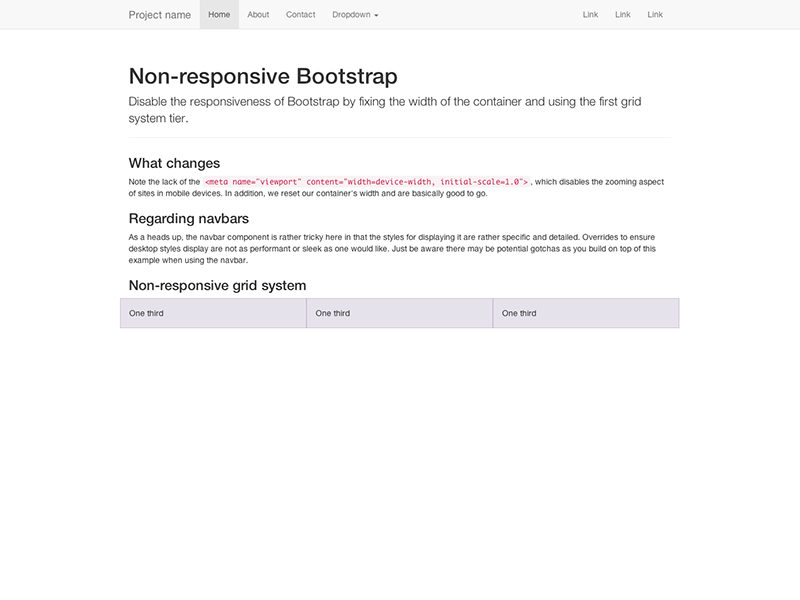
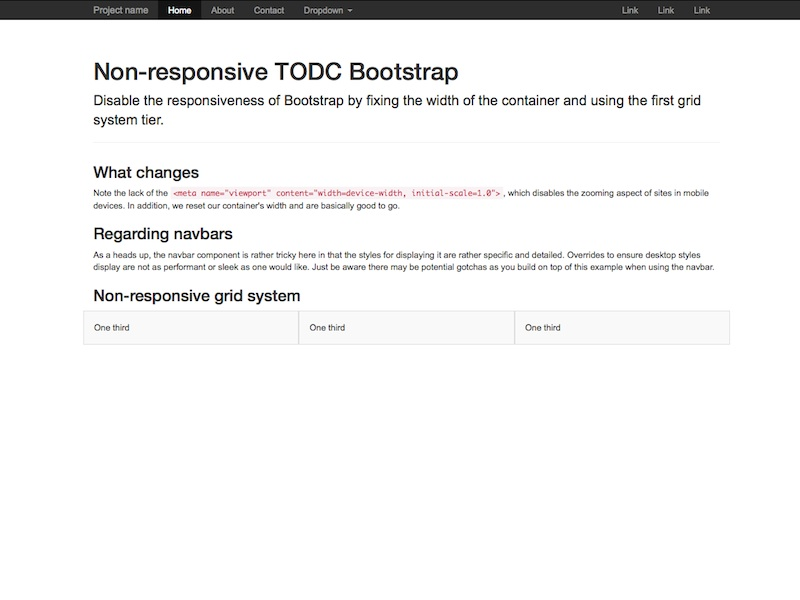
update the non-responsive example to support todc-bootstrap
#117

Changed region(s): [[0.0938, 0.24, 0.9062, 0.57], [0.0, 0.0, 1.0, 0.06], [0.0938, 0.09, 0.875, 0.21]]

diff --git a/examples/non-responsive/index.html b/examples/non-responsive/index.html
@@ -10,10 +10,13 @@
 
     <link rel="shortcut icon" href="../../docs-assets/ico/favicon.png">
 
-    <title>Non-responsive Template for Bootstrap</title>
+    <title>Non-responsive Template for TODC Bootstrap</title>
 
     <!-- Bootstrap core CSS -->
     <link href="../../dist/css/bootstrap.css" rel="stylesheet">
+
+    <!-- TODC Bootstrap core CSS -->
+    <link href="../../dist/css/todc-bootstrap.css" rel="stylesheet">
 
     <!-- Custom styles for this template -->
     <link href="non-responsive.css" rel="stylesheet">
@@ -71,7 +74,7 @@
     <div class="container">
 
       <div class="page-header">
-        <h1>Non-responsive Bootstrap</h1>
+        <h1>Non-responsive TODC Bootstrap</h1>
         <p class="lead">Disable the responsiveness of Bootstrap by fixing the width of the container and using the first grid system tier.</p>
       </div>
 

diff --git a/examples/non-responsive/non-responsive.css b/examples/non-responsive/non-responsive.css
@@ -6,7 +6,7 @@
 
 /* Account for fixed navbar */
 body {
-  padding-top: 70px;
+  padding-top: 46px;
   padding-bottom: 30px;
 }
 
@@ -37,8 +37,8 @@ body {
   padding-bottom: 15px;
   background-color: #eee;
   border: 1px solid #ddd;
-  background-color: rgba(86,61,124,.15);
-  border: 1px solid rgba(86,61,124,.2);
+  background-color: #f9f9f9;
+  border: 1px solid #ddd;
 }
 
 .container .navbar-header,
@@ -75,9 +75,6 @@ body {
 }
 .navbar-nav > li {
   float: left;
-}
-.navbar-nav > li > a {
-  padding: 15px;
 }
 
 /* Redeclare since we override the float above */
